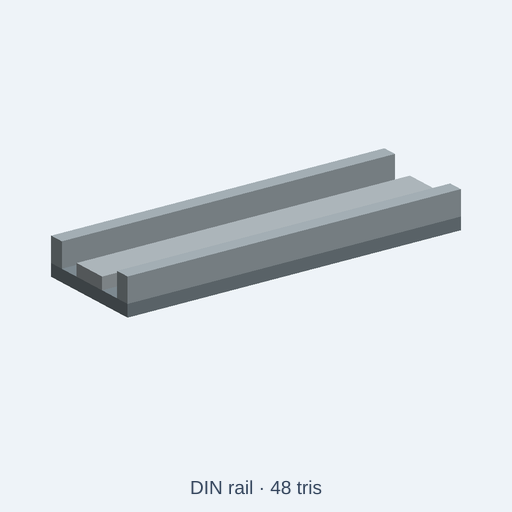
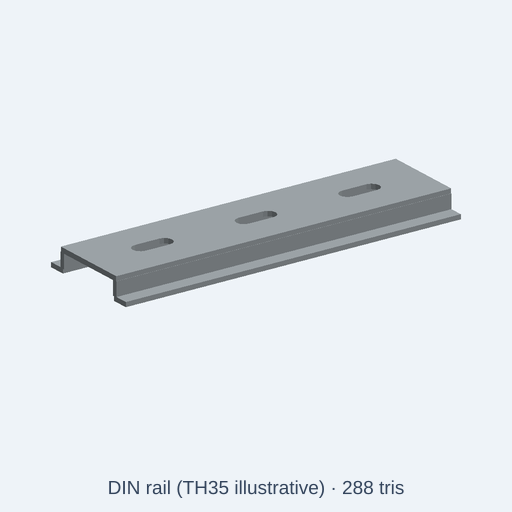
fix(catalog): model functional illustrated TH35 DIN rail

Changed region(s): [[0.0938, 0.2812, 0.9062, 0.625], [0.1875, 0.9375, 0.8125, 0.9688]]

diff --git a/tests/integration/catalog/dinRailFidelity.test.ts b/tests/integration/catalog/dinRailFidelity.test.ts
@@ -1,0 +1,86 @@
+// SPDX-License-Identifier: MIT
+// Geometry identity of an illustrative CC0 DIN TH35 scene prop, not IEC certification.
+import { beforeAll, describe, expect, it } from 'vitest';
+import { readFileSync } from 'node:fs';
+import { resolve } from 'node:path';
+import { NodeIO } from '@gltf-transform/core';
+import { initOcct } from '../../../src/kernel/backends/occt/occtBackend';
+import { buildCatalogAssetWithGlb } from '../../../src/agent/catalog/buildCatalog';
+import { runAndExport } from '../../../src/agent/script-runtime/export';
+
+type V=[number,number,number];
+type Tri=[V,V,V];
+const root=resolve(import.meta.dirname,'../../..');
+const path='catalog/kits/standard-components/din-rail.kcad.ts';
+const code=readFileSync(resolve(root,path),'utf8');
+const sub=(a:V,b:V):V=>[a[0]-b[0],a[1]-b[1],a[2]-b[2]];
+const dot=(a:V,b:V)=>a[0]*b[0]+a[1]*b[1]+a[2]*b[2];
+const cross=(a:V,b:V):V=>[a[1]*b[2]-a[2]*b[1],a[2]*b[0]-a[0]*b[2],a[0]*b[1]-a[1]*b[0]];
+function rayHit(tris:Tri[],p:V,d:V):boolean {
+  return tris.some(([a,b,c])=>{
+    const e1=sub(b,a),e2=sub(c,a),h=cross(d,e2),det=dot(e1,h);
+    if(Math.abs(det)<1e-9)return false;
+    const f=1/det,q=sub(p,a),u=f*dot(q,h),r=cross(q,e1),v=f*dot(d,r),t=f*dot(e2,r);
+    return u>=-1e-7&&v>=-1e-7&&u+v<=1+1e-7&&t>1e-6&&t<150;
+  });
+}
+async function triangles(bytes:Uint8Array):Promise<Map<string,Tri[]>> {
+  const doc=await new NodeIO().readBinary(bytes),out=new Map<string,Tri[]>();
+  for(const node of doc.getRoot().listNodes()) {
+    const mesh=node.getMesh();if(!mesh)continue;
+    const m=node.getWorldMatrix(),tris:Tri[]=[];
+    for(const prim of mesh.listPrimitives()) {
+      const pos=prim.getAttribute('POSITION')!,idx=prim.getIndices(),count=idx?idx.getCount():pos.getCount();
+      for(let i=0;i<count;i+=3)tris.push([0,1,2].map(j=>{
+        const v=pos.getElement(idx?idx.getScalar(i+j):i+j,[]);
+        return [0,1,2].map(k=>1000*(m[k]!*v[0]!+m[k+4]!*v[1]!+m[k+8]!*v[2]!+m[k+12]!)) as V;
+      }) as Tri);
+    }
+    out.set(node.getName(),tris);
+  }
+  return out;
+}
+async function variant(src:string):Promise<Tri[]> {
+  const exp=await runAndExport({code:src,fileName:'din-rail.kcad.ts',scriptDir:resolve(root,'catalog/kits/standard-components'),format:'glb',options:{format:'glb',style:'lowpoly',lowpoly:{maxTriangles:450}}});
+  expect(exp.diagnostics.filter(d=>d.severity==='error')).toEqual([]);
+  return (await triangles(exp.bytes)).get('connected-steel-top-hat-rail')!;
+}
+function accept(t:Tri[],s:number) {
+  expect(t.length).toBeGreaterThan(150);
+  // Native GLB maps source Z to GLB Y, source Y to GLB negative Z.
+  for(const x of [-34,0,34])
+    expect(rayHit(t,[x*s,-1*s,0],[0,1,0]),`mounting slot at X=${x} must be clear`).toBe(false);
+  expect(rayHit(t,[17*s,-1*s,0],[0,1,0]),'steel crown between slots').toBe(true);
+  for(const side of [-16,16])
+    expect(rayHit(t,[20*s,-1*s,-side*s],[0,1,0]),'both retaining flanges exist').toBe(true);
+  expect(rayHit(t,[20*s,3.5*s,-25*s],[0,0,1]),'skirts beneath raised crown').toBe(true);
+  expect(rayHit(t,[-70*s,3*s,0],[1,0,0]),'open underside instead of solid bar').toBe(false);
+}
+beforeAll(async()=>{await initOcct();},30000);
+describe('illustrative DIN TH35 rail geometric identity',()=>{
+  it('has one connected top-hat section, 35 x 7.5 mm cross-section, 3 actual oblong slots',async()=>{
+    const {asset,glb}=await buildCatalogAssetWithGlb(root,path);
+    expect(asset.description).toMatch(/not a dimensionally certified IEC 60715 profile/i);
+    expect(asset.stats.triangles).toBeLessThanOrEqual(asset.triangleBudget);
+    expect(asset.stats.sizeM.map(n=>Math.round(n*1000)).sort((a,b)=>a-b)).toEqual([8,35,110]);
+    const parts=await triangles(glb);
+    expect([...parts.keys()]).toEqual(['connected-steel-top-hat-rail']);
+    accept(parts.get('connected-steel-top-hat-rail')!,1);
+  },30000);
+  it('detects solid rather than drilled crown',async()=>{
+    const broken=code.replace('rail = rail.subtract(opening);','// no holes');
+    expect(broken).not.toBe(code);
+    const t=await variant(broken);
+    expect(rayHit(t,[0,-1,0],[0,1,0])).toBe(true);
+  },30000);
+  it('detects underside filled by a solid bar',async()=>{
+    const broken=code.replace('block(-55, -13, 5.9, 110, 26, 1.6)','block(-55, -13, 0, 110, 26, 7.5)');
+    expect(broken).not.toBe(code);
+    const t=await variant(broken);
+    expect(rayHit(t,[-70,3,0],[1,0,0])).toBe(true);
+  },30000);
+  it('preserves slots and open hat profile at both size variants',async()=>{
+    for(const [name,s] of [['compact',.75],['large',1.25]] as const)
+      accept(await variant(code.replace("param('size', 'standard'",`param('size', '${name}'`)),s);
+  },60000);
+});

diff --git a/catalog/kits/standard-components/din-rail.kcad.ts b/catalog/kits/standard-components/din-rail.kcad.ts
@@ -1,32 +1,47 @@
-// Distinctive geometry: Short symmetric top-hat rail profile with a flat web and raised edge lips
+// SPDX-License-Identifier: CC0-1.0
+// Illustrative 35 mm top-hat (TH35) rail: raised slotted crown, two skirts,
+// and outward retaining lips. Not an IEC 60715 certified extrusion/profile.
 meta({
   name: 'din-rail',
   license: 'CC0-1.0',
-  title: 'DIN rail',
-  description: 'Short symmetric top-hat rail profile with a flat web and raised edge lips Knobs: model size, steel, stainless steel, aluminum.',
-  tags: ['din rail', 'mounting rail', 'control cabinet', 'electrical'],
+  title: 'DIN rail (TH35 illustrative)',
+  description: 'Illustrative CC0 low-poly 35 mm top-hat DIN mounting rail: raised crown, open underside, continuous outward retaining lips, and three actual oblong mounting slots. This is a scene prop, not a dimensionally certified IEC 60715 profile; lip radii, coating, load, tolerances, and mounting pitch are not specified. Model size scales all dimensions; finish color changes appearance only.',
+  tags: ['din rail', 'TH35', 'top-hat', 'mounting rail', 'control cabinet', 'electrical', 'CC0', 'scene prop'],
   kit: 'standard-components',
   category: 'attachment',
   origin: 'base',
   compat: ['mechanical', 'industrial', 'workshop', 'assembly'],
-  triangleBudget: 300,
+  triangleBudget: 450,
 });
 
-const size = param('size', 'standard', { choices: ['compact', 'standard', 'large'], label: 'Model size' });
-const steel = param('steel', '#85929a', { label: 'Steel' });
-const stainless = param('stainless', '#b8c1c6', { label: 'Stainless steel' });
-const aluminum = param('aluminum', '#aebac0', { label: 'Aluminum' });
+const size = param('size', 'standard', { choices: ['compact', 'standard', 'large'], label: 'Illustrative model scale' });
+const steel = param('steel', '#a5adb1', { label: 'Rail finish appearance' });
 presets({
-  dark: { steel: '#3e484e', stainless: '#7d8a91', aluminum: '#586970' },
-  brass: { steel: '#646f75', stainless: '#b38b52', aluminum: '#aab8bc' },
-  weathered: { steel: '#665b4d', stainless: '#8b8275', aluminum: '#788177' }
+  dark: { steel: '#59646a' },
+  galvanized: { steel: '#a5adb1' },
+  weathered: { steel: '#777870' },
 });
-
 const s = size.value === 'compact' ? 0.75 : size.value === 'large' ? 1.25 : 1;
-const block = (x: number, y: number, z: number, w: number, d: number, h: number) => box(w, d, h).translate(x, y, z);
+const block = (x: number, y: number, z: number, w: number, d: number, h: number) =>
+  box(w*s, d*s, h*s).translate(x*s, y*s, z*s);
+
+// X is the rail length, Y the 35 mm width, Z the 7.5 mm height.
+// Overlapping by <=0.15 mm at joins gives one connected steel section while
+// preserving the open mounting cavity below the raised crown.
+let rail = block(-55, -13, 5.9, 110, 26, 1.6);
+rail = rail.union(block(-55, -13.1, 1.35, 110, 1.65, 4.7));
+rail = rail.union(block(-55, 11.45, 1.35, 110, 1.65, 4.7));
+rail = rail.union(block(-55, -17.5, 0, 110, 5.5, 1.5));
+rail = rail.union(block(-55, 12, 0, 110, 5.5, 1.5));
+
+// Three 13 x 5 mm rounded slots cut through the elevated mounting crown.
+// A colored rectangle on a solid sheet would not be a usable opening.
+for (const x of [-34, 0, 34]) {
+  const opening = block(x-4, -2.5, 5.5, 8, 5, 3)
+    .union(cylinder(3*s, 2.5*s, 16).translate((x-4)*s, 0, 5.5*s))
+    .union(cylinder(3*s, 2.5*s, 16).translate((x+4)*s, 0, 5.5*s));
+  rail = rail.subtract(opening);
+}
 const a = assembly('din-rail');
-a.part('web',block(-55*s,-18*s,0,110*s,36*s,4*s).color(steel));
-a.part('left-lip',block(-55*s,-18*s,4*s,110*s,5*s,8*s).color(aluminum));
-a.part('right-lip',block(-55*s,13*s,4*s,110*s,5*s,8*s).color(aluminum));
-a.part('ridge',block(-55*s,-6*s,4*s,110*s,12*s,4*s).color(stainless));
+a.part('connected-steel-top-hat-rail', rail.color(steel));
 return a.model();
